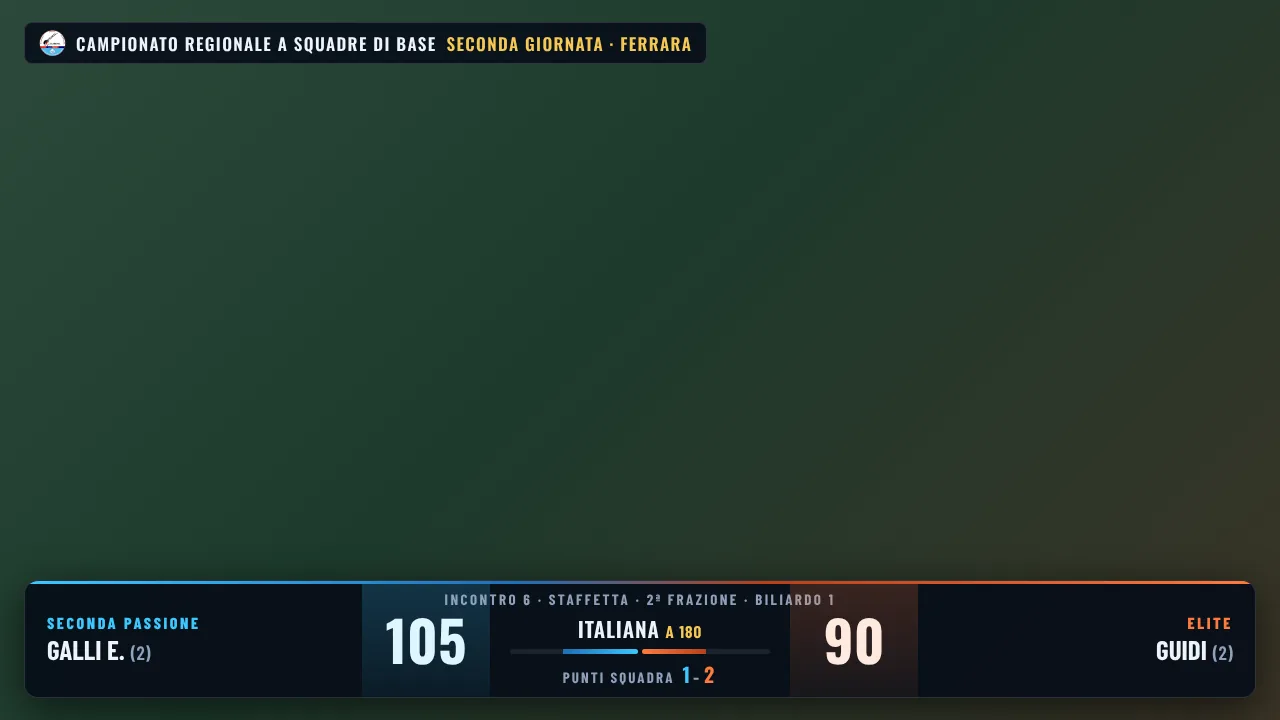
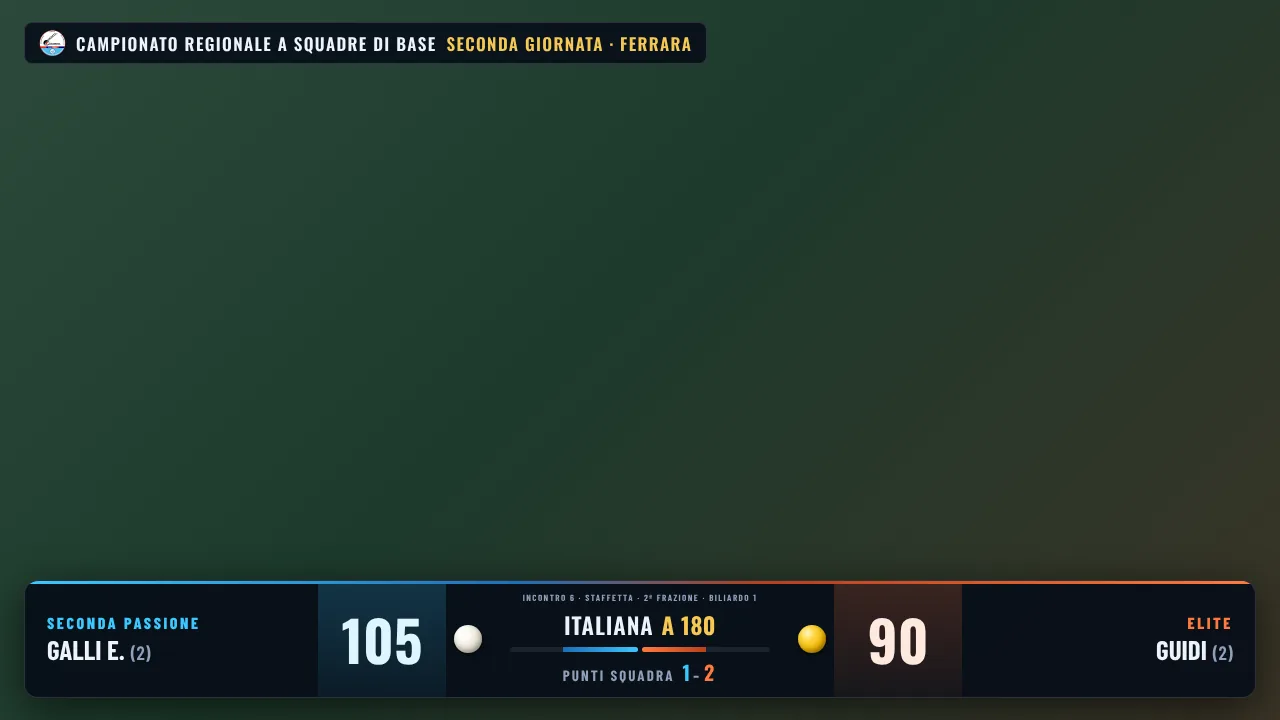
Fascia: bilia bianca a sinistra e gialla a destra (scelta dal pannello Onda, tasto B), traguardo più grande; manuale; versione 2026111302
Claude-Session: https://claude.ai/code/session_013Bh35CD2cQ8S7o5rzFMs8H

Changed region(s): [[0.25, 0.7944, 0.75, 0.9472]]

diff --git a/js/overlay.js b/js/overlay.js
@@ -222,12 +222,17 @@ function ovTree(TB, pg){
   return {cards, paths, labels};
 }
 /* ---- fascia dell'incontro in primo piano ---- */
+/* bilia bianca (dal 13/11/2026): nella fascia a sinistra c'è chi ha la bianca, a destra chi ha la gialla, a prescindere da casa/trasferta.
+   Comando immediato della regia in onda/<gara>.bianca = {<mkey dell'incontro>: "h"|"a"}; senza comando la bianca è il lato sinistro del tabellone (SDS).
+   Il tabellone completo e il sito non cambiano. */
+function ovFSides(m, i){ const d = SDS(), b = ((ovO().bianca || {})[mkey(m, i)]);
+  return b==="h" || b==="a" ? [b, b==="h" ? "a" : "h"] : d; }
 function ovFasciaHTML(){
   const lv = OVMINI && S.stato==="live" ? `<span class="live"><i></i>LIVE</span>` : "";
   const chip = `<div class="chip"><img src="${LOGO_56}" alt="">${esc(S.title)}${S.subtitle ? `<span class="t2">${esc(S.subtitle)}</span>` : ""}${lv}</div>`;
   const i = ovPrimo(), m = S.matches[i]; if(!m) return chip + (OVMINI && !isTorneo() ? ovTeamBand() : "");
   const L = ovRotList(), dots = L.length>1 ? `<div class="rot">${L.map(j=>`<i class="${j===i ? "on" : ""}"></i>`).join("")}</div>` : "";
-  const [x, y] = SDS(), ix = sd => sd==="h" ? 0 : 1, w = winner(m), tor = isTorneo(), yy = gYear();
+  const [x, y] = ovFSides(m, i), ix = sd => sd==="h" ? 0 : 1, w = winner(m), tor = isTorneo(), yy = gYear();
   const club = (sd) => tor ? "" : esc((sd==="h" ? S.home : S.away).short || (sd==="h" ? S.home : S.away).name);   /* squadra solo nei campionati a squadre */
   const names = sd => { const ns = m[sd].map((_,j)=>ovName(m, sd, j)).filter(Boolean); return ns.length ? ns.map(n=>`<span>${n}</span>`).join("") : "—"; };   /* coppie: un nome per riga */
   const side = sd => `<div class="side ${sd} ${sd===x ? "L" : "R"}">${tor ? "" : `<div class="tm">${club(sd)}</div>`}<div class="p${m[sd].length>1 && m.kind!=="Staffetta" ? " two" : ""}">${m.kind==="Staffetta" ? ovName(m, sd, Math.min(relayIdx(m), m[sd].length-1)) || "—" : names(sd)}</div></div>`;
@@ -237,7 +242,8 @@ function ovFasciaHTML(){
   const extra = tor ? (m.defs && m.defs.length>1 ? `<div class="tot">${setLabel(m.sk, m.defs.length)} · SET <b>${m.sw[ix(x)]}</b>–<b>${m.sw[ix(y)]}</b></div>` : "")
                     : `<div class="tot">PUNTI SQUADRA <b class="${x}">${t[ix(x)]}</b>–<b class="${y}">${t[ix(y)]}</b></div>`;
   const fresh = i!==ovLastPrimo && ovLastPrimo!==-2; ovLastPrimo = i;
-  return chip + `<div class="lt${x==="a" ? " sw" : ""}${fresh ? " in" : ""}${dots ? " rotn" : ""}">${dots}${side(x)}${sc(x)}<div class="mid"><div class="k">${k}</div>${ovSpec(m)}${ovBars(m, x, y)}${extra}</div>${sc(y)}${side(y)}</div>`;
+  const ball = c => `<div class="bb"><i class="ball ${c}" title="${c==="wh" ? "bilia bianca" : "bilia gialla"}"></i></div>`;
+  return chip + `<div class="lt balls${x==="a" ? " sw" : ""}${fresh ? " in" : ""}${dots ? " rotn" : ""}">${dots}${side(x)}${sc(x)}${ball("wh")}<div class="mid"><div class="k">${k}</div>${ovSpec(m)}${ovBars(m, x, y)}${extra}</div>${ball("ye")}${sc(y)}${side(y)}</div>`;
 }
 /* mini-overlay, campionati a squadre, nessun incontro in corso: squadre e punti */
 function ovTeamBand(){
@@ -257,7 +263,7 @@ function ovRender(){
   const body = v==="off" ? "" : v==="fascia" ? ovFasciaHTML() : isTorneo() ? (isTab() ? ovTabHTML() : ovTorneoHTML()) : ovSquadreHTML();
   app.innerHTML = `<div id="ov" class="${v}${OVMINI ? " mini" : ""}" style="--bga:${o.bga ?? .55}">${body}</div>`;
   const el = $("#ov");
-  el.querySelectorAll(".tn .n,.pl .p,.rl .nm,.hdr .t1,.hdr .t2,.card .n,.lt .p,.lt .tm,.lt .mid .k,.nav .pg").forEach(e=>{   /* nomi lunghi: si stringe il carattere */
+  el.querySelectorAll(".tn .n,.pl .p,.rl .nm,.hdr .t1,.hdr .t2,.card .n,.lt .p,.lt .tm,.lt .mid .k,.lt .mid .s,.nav .pg").forEach(e=>{   /* nomi lunghi: si stringe il carattere */
     e.style.fontSize = ""; let fs = parseFloat(getComputedStyle(e).fontSize), min = fs*.6;
     while(e.scrollWidth > e.clientWidth + 1 && fs > min){ fs -= 1; e.style.fontSize = fs + "px"; } });
   if(ovPrev && ovPrev.id===ovId) S.matches.forEach((m,i)=>{ const q = ovPrev.st.matches[i]; if(!q) return;
@@ -289,6 +295,7 @@ function ondaPaint(){
     <div class="og"><span>Incontro in primo piano</span><select data-o="primo"><option value="-1">Automatico (l'ultimo messo in corso)</option>${ondaMatches().map(x=>`<option value="${x.i}"${o.primo===x.i ? " selected" : ""}>${esc(lab(x.m, x.i))}</option>`).join("")}</select></div>
     ${pages.length>1 ? `<div class="og"><span>Pagina del tabellone</span><div class="two"><select data-o="pag"><option value="">Automatica</option>${pages.map(pg=>`<option value="${pg.key}"${o.pag===pg.key ? " selected" : ""}>${esc(pg.title)}</option>`).join("")}</select>
       <select data-o="ciclo" title="Rotazione automatica delle pagine (con pagina Automatica)">${[[0,"Ferma"],[10,"Ruota ogni 10 s"],[15,"Ruota ogni 15 s"],[20,"Ruota ogni 20 s"],[30,"Ruota ogni 30 s"]].map(([v,t])=>`<option value="${v}"${(+o.ciclo||0)===v ? " selected" : ""}>${t}</option>`).join("")}</select></div></div>` : ""}
+    ${ondaBiancaHTML()}
     <div class="og"><span>Sfondo del tabellone</span><div class="two"><input type="range" min="0" max="1" step="0.05" value="${o.bga ?? .55}" data-o="bga"><b>${Math.round((o.bga ?? .55)*100)}%</b></div></div>
     ${camHTML()}
     <div class="og lk"><span>Sorgente Browser in OBS (1280×720)</span>
@@ -298,8 +305,18 @@ function ondaPaint(){
       <div class="two"><code>${esc(pub)}?overlay&amp;riepilogo&amp;live</code><button data-o="copy:riep">Copia</button></div>
       <small>Gli ultimi due sono per le dirette con telecamera (due widget di PRISM): la fascia con l'incontro in primo piano (tasto F per cambiarlo), e il riepilogo a tutto schermo che compare al posto della fascia quando è in onda il Tabellone (tasto V).</small></div>
     ${ondaErr ? `<p class="err">${esc(ondaErr)}</p>` : ""}
-    <p class="hint">Tasti: <kbd>N</kbd> nascondi/mostra · <kbd>V</kbd> tabellone/fascia · <kbd>F</kbd> incontro in primo piano · <kbd>[</kbd> <kbd>]</kbd> sfondo. Risultati e nomi vanno in onda con PUBBLICA; questi comandi subito.</p>`;
+    <p class="hint">Tasti: <kbd>N</kbd> nascondi/mostra · <kbd>V</kbd> tabellone/fascia · <kbd>F</kbd> incontro in primo piano · <kbd>B</kbd> bilia bianca · <kbd>[</kbd> <kbd>]</kbd> sfondo. Risultati e nomi vanno in onda con PUBBLICA; questi comandi subito.</p>`;
 }
+/* bilia bianca dell'incontro in primo piano nella fascia (a sinistra) */
+function ondaBiancaHTML(){ const i = ovPrimo(), m = S.matches[i]; if(!m) return "";
+  const [x] = ovFSides(m, i), nm = sd => esc(m.kind==="Staffetta" ? teamShort(sd) : namesOf(m, sd) || (sd==="h" ? "Casa" : "Ospite"));
+  return `<div class="og bia"><span>Bilia bianca · incontro ${i+1} (nella fascia va a sinistra)</span>
+    <div class="seg s2">${SDS().map(sd=>`<button data-o="bia:${sd}" class="${x===sd ? "on" : ""}"><i class="ball wh"></i><span>${nm(sd)}</span></button>`).join("")}</div>
+    <small>Solo per la fascia: il tabellone resta con la casa a sinistra. Tasto <kbd>B</kbd> per scambiare.</small></div>`; }
+async function ondaBianca(sd){ const i = ovPrimo(), m = S.matches[i]; if(!m) return;
+  const k = mkey(m, i), cur = ovFSides(m, i)[0]; if(!sd) sd = cur==="h" ? "a" : "h";
+  await ondaSet({bianca: Object.assign({}, ovO().bianca || {}, {[k]: sd})});
+  if(!ondaErr) setFlash(`Bilia bianca: ${m.kind==="Staffetta" ? teamShort(sd) : namesOf(m, sd) || (sd==="h" ? "casa" : "ospite")}`); }
 function ondaToggle(){
   ondaOpen = !ondaOpen; ondaWatch(); camWatch(); if(ondaOpen) telStart(); else telStop();
   let p = document.getElementById("ondap");
@@ -308,6 +325,7 @@ function ondaToggle(){
       if(k==="x"){ ondaToggle(); renderBar(); }
       else if(k==="v") ondaSet({v});
       else if(k==="cam") camClick(v);
+      else if(k==="bia") ondaBianca(v);
       else if(k==="copy"){ const t = (PUBLIC_URL || pageURL("")) + (v==="live" ? "?overlay&live" : v==="mini" ? "?overlay&mini&live" : v==="riep" ? "?overlay&riepilogo&live" : "?overlay&gara=" + GARA);
         try{ navigator.clipboard.writeText(t).then(()=>setFlash("Indirizzo per OBS copiato"), ()=>setFlash(t)); }catch(err){ setFlash(t); } } });
     p.addEventListener("change", e=>{ const k = e.target.dataset.o; if(!k) return;
@@ -400,12 +418,13 @@ function camHTML(){ const c = camV(), sw = (k, on, t1, t0) => `<button data-o="c
 document.addEventListener("keydown", e=>{
   if(!editor || mode!=="board" || e.ctrlKey || e.metaKey || e.altKey) return;
   const ae = document.activeElement; if(ae && (ae.isContentEditable || /INPUT|SELECT|TEXTAREA/.test(ae.tagName))) return;
-  const k = e.key.toLowerCase(), o = ovO(); if(!/^[nvf\[\]]$/.test(k)) return;
+  const k = e.key.toLowerCase(), o = ovO(); if(!/^[nvfb\[\]]$/.test(k)) return;
   ondaWatch();
   if(k==="n") ondaSet({v: o.v==="off" ? (ondaLastV || "tab") : "off"});
   else if(k==="v") ondaSet({v: o.v==="fascia" ? "tab" : "fascia"});
   else if(k==="f"){ const L = (S.inCorso||[]).length ? S.inCorso : ondaMatches().map(x=>x.i); if(!L.length) return;
     const cur = L.indexOf(o.primo); ondaSet({primo: L[(cur + 1) % L.length]}); }
+  else if(k==="b") ondaBianca();
   else if(k==="[") ondaSet({bga: Math.min(1, Math.round(((o.bga ?? .55) + .1)*20)/20)});
   else if(k==="]") ondaSet({bga: Math.max(0, Math.round(((o.bga ?? .55) - .1)*20)/20)});
 });

diff --git a/manuale.html b/manuale.html
@@ -439,6 +439,7 @@ assente
 <tr><th>Comando</th><th>Tasto</th><th>Effetto</th></tr>
 <tr><td>In onda: Tabellone / Fascia incontro / Nascosto</td><td><kbd>V</kbd> · <kbd>N</kbd></td><td>V passa da tabellone a fascia; N nasconde e rimostra l'overlay.</td></tr>
 <tr><td>Incontro in primo piano</td><td><kbd>F</kbd></td><td>Quale incontro va nella fascia. Automatico = quello in corso; se sono più d'uno, l'ultimo messo in corso. Scegliendone uno resta fisso; F passa al successivo tra quelli in corso (è il modo per mostrare gli altri biliardi).</td></tr>
+<tr><td>Bilia bianca</td><td><kbd>B</kbd></td><td>Solo per la fascia: a sinistra va chi ha la bilia bianca, a destra chi ha la gialla, a prescindere da casa e trasferta. Si sceglie per l'incontro in primo piano toccando il nome di chi ha la bianca; B scambia. Ogni incontro ricorda la sua scelta. Il tabellone completo resta con la casa a sinistra.</td></tr>
 <tr><td>Pagina del tabellone</td><td></td><td>Solo tornei con batterie: pagina fissa, automatica, oppure rotazione ogni 10–30 secondi.</td></tr>
 <tr><td>Sfondo del tabellone</td><td><kbd>[</kbd> <kbd>]</kbd></td><td>Più pieno o più trasparente.</td></tr>
 <tr><td>📷 Telefono con B2P Camera</td><td></td><td>Comandi per il telefono che trasmette con l'app B2P Camera: microfono, immagine, overlay, zoom, fuoco, cambio fotocamera (vedi più sotto).</td></tr>
@@ -451,6 +452,7 @@ assente
 <ul>
   <li>Mostra l'incontro in corso con giocatori, categoria, punteggi, specialità, numero del biliardo e (nelle gare a squadre) i punti delle squadre. La squadra di appartenenza dei giocatori compare solo nei campionati a squadre. In alto a sinistra il nome della gara con il bollino LIVE.</li>
   <li>Con <b>due o più incontri in corso</b> mostra l'ultimo messo in corso; per passare a un altro biliardo si usa <kbd>F</kbd> (o il menu “Incontro in primo piano”) nel pannello 📺 Onda, per vederli tutti <kbd>V</kbd> (riepilogo). Chi vuole la rotazione automatica aggiunge <code>&amp;rot</code> all'indirizzo (ogni 12 secondi; <code>&amp;rot=20</code> per 20 secondi): i pallini sotto indicano quale si sta vedendo.</li>
+  <li>Accanto ai punteggi ci sono una <b>bilia bianca</b> (a sinistra) e una <b>gialla</b> (a destra): all'inizio dell'incontro, nel pannello 📺 Onda, si tocca il nome di chi ha la bianca (o si preme <kbd>B</kbd>) e la fascia mette quel giocatore a sinistra. Il traguardo (“a 120”) è scritto grande come la specialità.</li>
   <li>Nelle gare a squadre, quando nessun incontro è in corso, mostra squadre e punti con il prossimo incontro.</li>
   <li>Con <b>PRISM Live Studio</b> sul telefono: modalità Camera, poi Widget → Web con l'indirizzo del mini-overlay (per le prove <code>&amp;prova</code> in fondo), riquadro a tutto schermo e livello bloccato. Lo sfondo è trasparente. La fascia si adatta da sola alla forma del riquadro: occupa sempre tutta la larghezza e sta in basso; il riquadro si può anche disegnare come una striscia bassa sul fondo (in quel caso il titolo della gara in alto non compare). Lo zoom del widget va lasciato a 100%. Con la versione gratuita di PRISM il logo “PRISM Live” in basso a destra non si può togliere: aggiungendo <code>&amp;alza</code> all'indirizzo la fascia si solleva e lo lascia libero sotto (<code>&amp;alza=20</code> per sollevarla di più). Per ricaricare il widget dopo un aggiornamento del sito si aggiunge in fondo all'indirizzo <code>&amp;r=2</code>, poi <code>&amp;r=3</code> e così via.</li>
   <li>Dal pannello 📺 Onda: “Incontro in primo piano” lo blocca su un incontro, “Nascosto” lo toglie. Con “Tabellone” la fascia sparisce e al suo posto compare il riepilogo (vedi sotto).</li>
@@ -583,6 +585,7 @@ assente
 <h2><span class="n">15</span>Novità</h2>
 <h3>13 novembre 2026</h3>
 <ul>
+  <li>Fascia dell'overlay e mini-overlay: <b>bilia bianca a sinistra, gialla a destra</b>, con il giocatore che ha la bianca scelto dal pannello 📺 Onda (tasto B); traguardo più grande e leggibile.</li>
   <li>B2P Camera 0.9: <b>esposizione</b> bloccabile e regolabile (più chiaro / più scuro), dal telefono e dal pannello 📺 Onda; anti-sfarfallio a 50 Hz.</li>
 </ul>
 <h3>11 novembre 2026</h3>

diff --git a/index.html b/index.html
@@ -17,12 +17,12 @@
 <meta name="apple-mobile-web-app-title" content="Live 2P">
 <link rel="preconnect" href="https://fonts.gstatic.com" crossorigin>
 <link rel="stylesheet" href="https://fonts.googleapis.com/css2?family=Barlow+Condensed:wght@500;600;700;800&family=Oswald:wght@600;700&display=swap">
-<link rel="stylesheet" href="css/base.css?v=2026111301">
-<link rel="stylesheet" href="css/elenco-regia.css?v=2026111301">
-<link rel="stylesheet" href="css/torneo.css?v=2026111301">
-<link rel="stylesheet" href="css/set-andamento.css?v=2026111301">
-<link rel="stylesheet" href="css/anagrafica.css?v=2026111301">
-<link rel="stylesheet" href="css/overlay.css?v=2026111301">
+<link rel="stylesheet" href="css/base.css?v=2026111302">
+<link rel="stylesheet" href="css/elenco-regia.css?v=2026111302">
+<link rel="stylesheet" href="css/torneo.css?v=2026111302">
+<link rel="stylesheet" href="css/set-andamento.css?v=2026111302">
+<link rel="stylesheet" href="css/anagrafica.css?v=2026111302">
+<link rel="stylesheet" href="css/overlay.css?v=2026111302">
 </head>
 <body>
 <div id="app"></div>
@@ -69,22 +69,22 @@
 <div id="sug" hidden role="listbox" aria-label="Giocatori"></div>
 <script src="https://www.gstatic.com/firebasejs/10.12.2/firebase-app-compat.js"></script>
 <script src="https://www.gstatic.com/firebasejs/10.12.2/firebase-database-compat.js"></script>
-<script src="js/config.js?v=2026111301"></script>
-<script src="js/formule.js?v=2026111301"></script>
-<script src="js/util.js?v=2026111301"></script>
-<script src="js/gara.js?v=2026111301"></script>
-<script src="js/dati.js?v=2026111301"></script>
-<script src="js/vista-gara.js?v=2026111301"></script>
-<script src="js/vista-elenco.js?v=2026111301"></script>
-<script src="js/render.js?v=2026111301"></script>
-<script src="js/interazioni.js?v=2026111301"></script>
-<script src="js/anagrafica.js?v=2026111301"></script>
-<script src="js/nomi.js?v=2026111301"></script>
-<script src="js/controllo-nomi.js?v=2026111301"></script>
-<script src="js/giocatori.js?v=2026111301"></script>
-<script src="js/overlay.js?v=2026111301"></script>
-<script src="js/regia-barra.js?v=2026111301"></script>
-<script src="js/avvio.js?v=2026111301"></script>
+<script src="js/config.js?v=2026111302"></script>
+<script src="js/formule.js?v=2026111302"></script>
+<script src="js/util.js?v=2026111302"></script>
+<script src="js/gara.js?v=2026111302"></script>
+<script src="js/dati.js?v=2026111302"></script>
+<script src="js/vista-gara.js?v=2026111302"></script>
+<script src="js/vista-elenco.js?v=2026111302"></script>
+<script src="js/render.js?v=2026111302"></script>
+<script src="js/interazioni.js?v=2026111302"></script>
+<script src="js/anagrafica.js?v=2026111302"></script>
+<script src="js/nomi.js?v=2026111302"></script>
+<script src="js/controllo-nomi.js?v=2026111302"></script>
+<script src="js/giocatori.js?v=2026111302"></script>
+<script src="js/overlay.js?v=2026111302"></script>
+<script src="js/regia-barra.js?v=2026111302"></script>
+<script src="js/avvio.js?v=2026111302"></script>
 
 </body>
 </html>

diff --git a/css/overlay.css b/css/overlay.css
@@ -204,6 +204,15 @@ body.ovm > *:not(#app){display:none!important}
 #ov .lt .rot i{width:7px;height:7px;border-radius:50%;background:rgba(255,255,255,.25)}
 #ov .lt .rot i.on{background:var(--gold)}
 #ov .lt.team .p{font-size:25px}
+/* traguardo leggibile (13/11/2026): stessa altezza della specialità, numero in grassetto oro */
+#ov .lt .mid .s{font-size:23px;max-width:100%;overflow:hidden}
+#ov .lt .mid .s small{font-family:var(--fh);font-size:1em;font-weight:700;letter-spacing:.02em;margin-left:8px}
+/* bilie (13/11/2026): bianca accanto al punteggio di sinistra, gialla accanto a quello di destra */
+#ov .lt.balls{grid-template-columns:1fr 128px 44px 300px 44px 128px 1fr}
+#ov .lt .bb{display:grid;place-items:center}
+#ov .ball{display:inline-block;width:28px;height:28px;border-radius:50%;box-shadow:0 2px 5px rgba(0,0,0,.55),inset -2px -3px 5px rgba(0,0,0,.28);flex:none}
+#ov .ball.wh{background:radial-gradient(circle at 34% 30%,#fff 0,#fbfaf4 22%,#e4dfd0 62%,#a9a290 100%)}
+#ov .ball.ye{background:radial-gradient(circle at 34% 30%,#fff7cf 0,#ffd94a 24%,#f0b400 62%,#9a6b00 100%)}
 #ov .lt.team .lsc{font-size:62px}
 #ov .chip .t2{color:var(--gold)}
 /* mini-overlay (PRISM, telecamera): fascia più bassa e compatta */
@@ -217,6 +226,10 @@ body.ovm > *:not(#app){display:none!important}
 #ov.mini .mid .k{font-size:12.5px}
 #ov.mini .mid .s{font-size:19px}
 #ov.mini .mid .s small{font-size:15px}
+#ov.mini .lt .mid .s{font-size:21px}
+#ov.mini .lt .mid .s small{font-size:1em}
+#ov.mini .lt.balls{grid-template-columns:1fr 100px 36px 270px 36px 100px 1fr}
+#ov.mini .lt .ball{width:24px;height:24px}
 #ov.mini .lt .bars{width:240px;height:4px}
 #ov.mini .lt .tot{font-size:12.5px}
 #ov.mini .lt .tot b{font-size:17px}
@@ -250,6 +263,11 @@ body.ovm > *:not(#app){display:none!important}
 #ondap .lk small{color:#93a5bf;font-size:12.5px}
 #ondap .hint{color:#93a5bf;font-size:12.5px;margin:0}
 #ondap .err{color:#ff8a8a;margin:0}
+#ondap .seg.s2{grid-template-columns:1fr 1fr}
+#ondap .bia button{display:flex;align-items:center;justify-content:center;gap:6px;min-width:0}
+#ondap .bia button span{min-width:0;overflow:hidden;white-space:nowrap;text-overflow:ellipsis}
+#ondap .bia .ball{display:inline-block;width:14px;height:14px;border-radius:50%;flex:none;background:radial-gradient(circle at 34% 30%,#fff 0,#f4f1e6 30%,#b9b3a2 100%);box-shadow:0 1px 2px rgba(0,0,0,.5)}
+#ondap .bia small{color:#93a5bf;font-size:12.5px}
 #ondap .cam .two small{color:#93a5bf;font-size:12.5px}
 #ondap .cam .two>small:first-child{min-width:3.2em}
 #ondap .cam>small{color:#93a5bf;font-size:12.5px}
